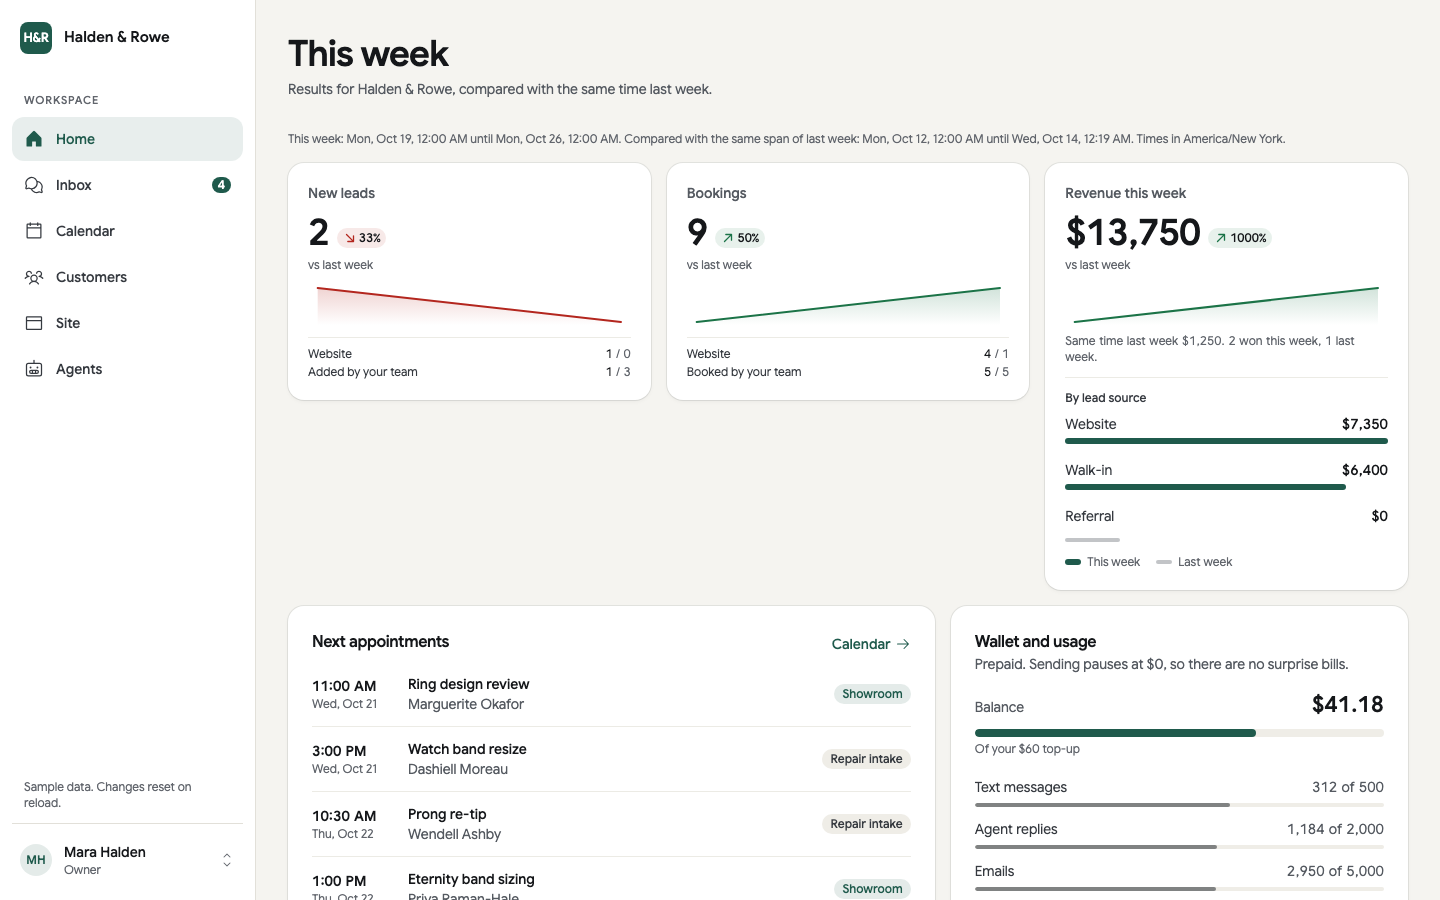
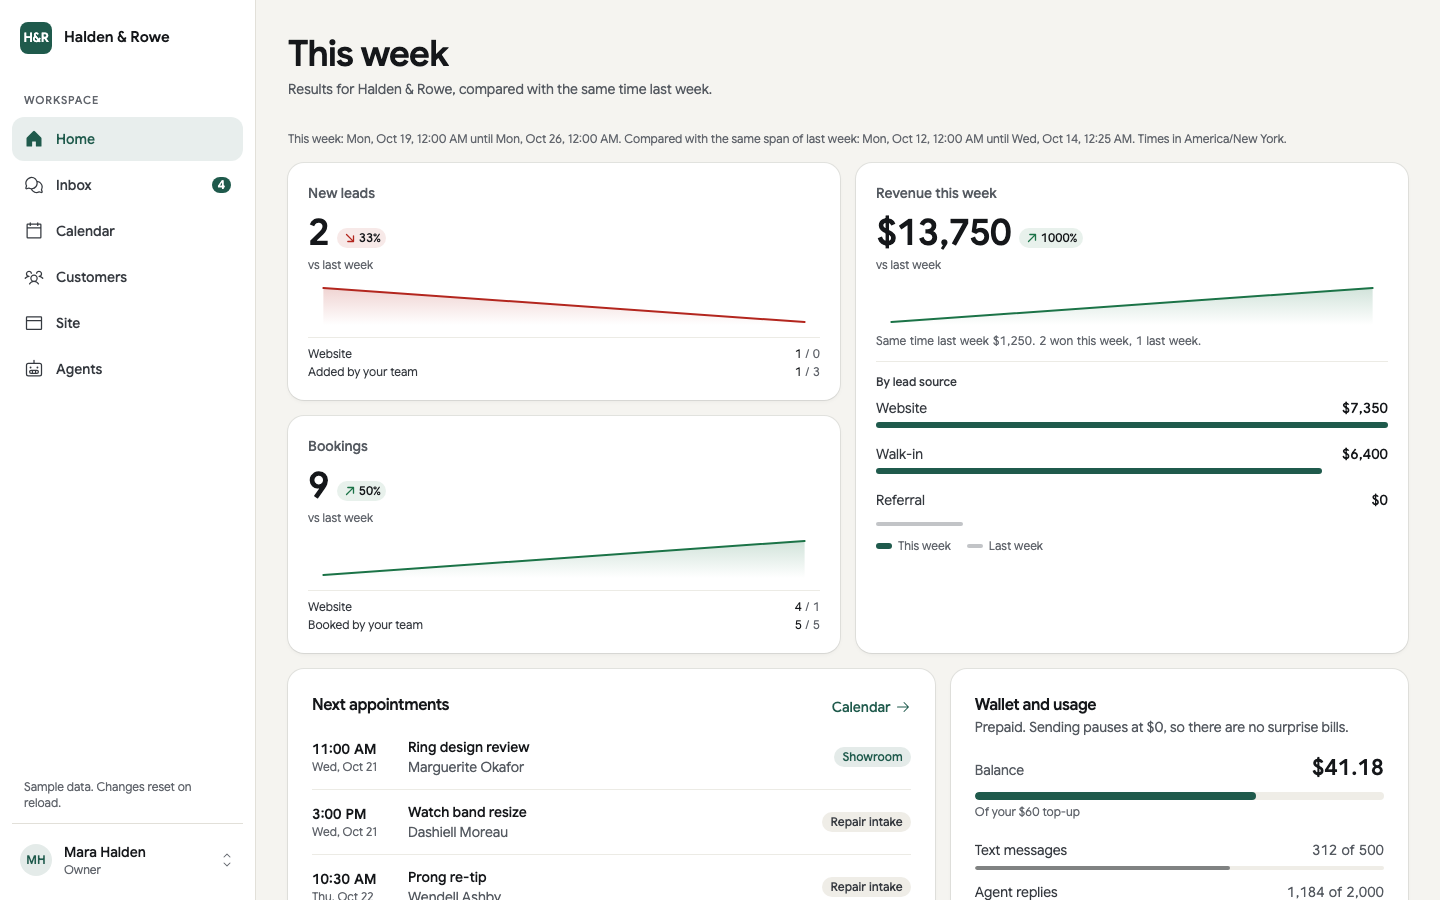
fix(dashboard): review fixes for the redesign
Home KPI tiles no longer scrub (last week's value showed beside this week's change, and the
chart was a sub-44px pointer target). Nav, hover and segmented indicators follow a reduced
motion setting changed while the app is open. Segmented switches scroll instead of widening
the page; KPI values shrink on phones.

diff --git a/apps/dashboard/src/components/ui/kpi-tile.tsx b/apps/dashboard/src/components/ui/kpi-tile.tsx
@@ -14,18 +14,9 @@ import {
   useEffect,
   useId,
   useState,
-  useSyncExternalStore,
 } from "react";
+import { useReducedMotionLive } from "@/lib/motion";
 import { cn } from "@/lib/utils";
-
-const REDUCED_MOTION = "(prefers-reduced-motion: reduce)";
-const reducesMotion = () => !!window.matchMedia?.(REDUCED_MOTION).matches;
-/** Follows the setting while mounted (Motion's own hook reads it once). */
-function watchMotion(change: () => void) {
-  const query = window.matchMedia?.(REDUCED_MOTION);
-  query?.addEventListener("change", change);
-  return () => query?.removeEventListener("change", change);
-}
 
 export type KpiTileProps = {
   /** What is measured, e.g. "Revenue"; also the tile's accessible name. */
@@ -44,6 +35,11 @@ export type KpiTileProps = {
   trendLabels?: readonly string[];
   /** New values keep coming: the newest point pulses. */
   live?: boolean;
+  /**
+   * Pointer and arrow keys on the line show a point's value in the headline. Off when the change
+   * chip would then describe another period than the headline. Default: on.
+   */
+  scrub?: boolean;
   /** Skeletons while the first numbers load. */
   loading?: boolean;
   className?: string;
@@ -81,7 +77,7 @@ const tween = (duration: number) => ({ duration, ease: EASE });
 const [ROLL, MORPH, DRAW] = [tween(0.6), tween(0.5), tween(0.9)] as const;
 const SKELETON = "skeleton block";
 const VALUE =
-  "font-semibold text-3xl text-fg tabular-nums leading-none tracking-display";
+  "min-w-0 break-all font-semibold text-2xl text-fg tabular-nums leading-none tracking-display sm:text-3xl";
 const TILE =
   "flex min-w-0 flex-col gap-3 rounded-lg bg-surface p-4 text-fg shadow-card lg:p-5";
 const LABEL = "truncate font-medium text-muted text-sm";
@@ -139,6 +135,7 @@ export function KpiTile({
   trend = [],
   trendLabels,
   live = false,
+  scrub = true,
   loading = false,
   className,
   formatDelta = (change) => `${Math.abs(change).toFixed(1)}%`,
@@ -147,7 +144,7 @@ export function KpiTile({
   children,
 }: KpiTileProps) {
   // The server cannot know it: hydration starts with motion, then follows the setting.
-  const reduced = useSyncExternalStore(watchMotion, reducesMotion, () => false);
+  const reduced = useReducedMotionLive();
   const id = useId();
   const [active, setActive] = useState(null as number | null);
   const points = placePoints(trend, trendLabels);
@@ -214,7 +211,7 @@ export function KpiTile({
       className={cn(TILE, className)}
       data-slot="kpi-tile"
       data-testid={testId}
-      onPointerLeave={letGo}
+      onPointerLeave={scrub ? letGo : undefined}
     >
       <h2 className={LABEL} id={`${id}-label`}>
         {label}
@@ -268,8 +265,8 @@ export function KpiTile({
             <svg
               aria-hidden="true"
               className="block size-full touch-pan-y overflow-visible"
-              onPointerDown={pick}
-              onPointerMove={pick}
+              onPointerDown={scrub ? pick : undefined}
+              onPointerMove={scrub ? pick : undefined}
               preserveAspectRatio="none"
               viewBox={`0 0 ${W} ${H}`}
             >
@@ -338,7 +335,7 @@ export function KpiTile({
                 style={spot(point)}
               />
             ) : null}
-            {points.length > 1 && read ? (
+            {scrub && points.length > 1 && read ? (
               <input
                 aria-label={`${label} trend`}
                 aria-valuetext={`${read.label}: ${format(read.value)}`}

diff --git a/apps/dashboard/src/components/ui/segmented.tsx b/apps/dashboard/src/components/ui/segmented.tsx
@@ -7,7 +7,7 @@
 import { LayoutGroup, motion } from "motion/react";
 import Link from "next/link";
 import { useId } from "react";
-import { SPRING_LAYOUT } from "@/lib/motion";
+import { useLayoutTransition } from "@/lib/motion";
 import { cn } from "@/lib/utils";
 
 /** A pressed-button group with a pill that slides to the chosen option. */
@@ -19,9 +19,10 @@ export function Segmented<T extends string>({ label, value, options, onChange, c
   className?: string;
 }) {
   const id = useId();
+  const transition = useLayoutTransition();
   return (
     <LayoutGroup id={id}>
-      <div role="group" aria-label={label} className={cn("inline-flex rounded-pill bg-surface-warm p-1", className)}>
+      <div role="group" aria-label={label} className={cn("inline-flex max-w-full overflow-x-auto rounded-pill bg-surface-warm p-1", className)}>
         {options.map((option) => {
           const active = value === option.value;
           return (
@@ -31,12 +32,12 @@ export function Segmented<T extends string>({ label, value, options, onChange, c
               aria-pressed={active}
               onClick={() => onChange(option.value)}
               className={cn(
-                "relative min-h-11 rounded-pill px-4 text-sm font-medium transition-quick",
+                "relative min-h-11 shrink-0 rounded-pill px-3 text-sm font-medium whitespace-nowrap transition-quick",
                 active ? "text-fg" : "text-muted hover:text-fg",
               )}
             >
               {active ? (
-                <motion.span layoutId="pill" transition={SPRING_LAYOUT} aria-hidden className="absolute inset-0 rounded-pill bg-surface shadow-card" />
+                <motion.span layoutId="pill" transition={transition} aria-hidden className="absolute inset-0 rounded-pill bg-surface shadow-card" />
               ) : null}
               <span className="relative">{option.label}</span>
             </button>
@@ -55,6 +56,7 @@ export function ViewTabs({ label, current, tabs, className }: {
   className?: string;
 }) {
   const id = useId();
+  const transition = useLayoutTransition();
   return (
     <LayoutGroup id={id}>
       <nav aria-label={label} className={cn("flex gap-1 border-b border-border", className)}>
@@ -72,7 +74,7 @@ export function ViewTabs({ label, current, tabs, className }: {
             >
               {tab.label}
               {active ? (
-                <motion.span layoutId="underline" transition={SPRING_LAYOUT} aria-hidden className="absolute inset-x-0 -bottom-px h-0.5 rounded-pill bg-accent" />
+                <motion.span layoutId="underline" transition={transition} aria-hidden className="absolute inset-x-0 -bottom-px h-0.5 rounded-pill bg-accent" />
               ) : null}
             </Link>
           );

diff --git a/apps/dashboard/src/components/shell/app-shell.tsx b/apps/dashboard/src/components/shell/app-shell.tsx
@@ -12,7 +12,7 @@ import { AccountMenu, OWNER } from "./account-menu";
 import { isActive, NAV_ITEMS } from "./nav";
 import { SessionGate } from "./session-gate";
 import { SharedLayoutBg } from "@/components/ui/shared-layout-bg";
-import { SPRING_LAYOUT } from "@/lib/motion";
+import { useLayoutTransition } from "@/lib/motion";
 
 function Brand() {
   return (
@@ -35,6 +35,8 @@ function useInboxCount(): number {
 
 export function AppShell({ children }: { children: ReactNode }) {
   const pathname = usePathname();
+  // MotionConfig reads reduced motion once; this follows a change made while the app is open.
+  const layoutTransition = useLayoutTransition();
   const waiting = useInboxCount();
   const { mode } = useApiRuntime();
 
@@ -65,7 +67,7 @@ export function AppShell({ children }: { children: ReactNode }) {
               const active = isActive(pathname, item.href);
               return (
                 <li key={item.href}>
-                  {active ? <motion.span layoutId="nav-active" transition={SPRING_LAYOUT} aria-hidden className="absolute inset-0 rounded-md bg-accent/10" /> : null}
+                  {active ? <motion.span layoutId="nav-active" transition={layoutTransition} aria-hidden className="absolute inset-0 rounded-md bg-accent/10" /> : null}
                   <Link
                     href={item.href}
                     aria-current={active ? "page" : undefined}
@@ -117,7 +119,7 @@ export function AppShell({ children }: { children: ReactNode }) {
                   )}
                 >
                   <span className="relative flex h-8 w-14 items-center justify-center">
-                    {active ? <motion.span layoutId="tab-active" transition={SPRING_LAYOUT} aria-hidden className="absolute inset-0 rounded-pill bg-accent/12" /> : null}
+                    {active ? <motion.span layoutId="tab-active" transition={layoutTransition} aria-hidden className="absolute inset-0 rounded-pill bg-accent/12" /> : null}
                     <item.icon size={24} weight={active ? "fill" : "regular"} aria-hidden className="relative" />
                     {item.href === "/inbox" && waiting > 0 ? (
                       <span className="absolute top-0 right-2 min-w-4 rounded-pill bg-accent px-1 text-center text-[10px] leading-4 font-semibold text-accent-on" aria-label={`${waiting} need attention`}>

diff --git a/apps/dashboard/src/lib/motion.ts b/apps/dashboard/src/lib/motion.ts
@@ -1,6 +1,8 @@
 // Motion tokens from 21st.dev "Animated Sidebar" by @starc007 (MIT; see NOTICE). Springs for
 // shared-layout glides (nav pills and indicators); CSS durations live in theme.css.
 
+import { useSyncExternalStore } from "react";
+
 export const EASE_OUT = [0.16, 1, 0.3, 1] as const;
 export const EASE_IN_OUT = [0.77, 0, 0.175, 1] as const;
 export const EASE_DRAWER = [0.32, 0.72, 0, 1] as const;
@@ -54,3 +56,24 @@ export const SPRING_GLIDE = {
   damping: 50,
   mass: 0.5,
 } as const;
+
+const REDUCED_MOTION = "(prefers-reduced-motion: reduce)";
+const reducesMotion = () => !!window.matchMedia?.(REDUCED_MOTION).matches;
+/** Follows the setting while mounted (Motion's own hook and MotionConfig read it once). */
+function watchMotion(change: () => void) {
+  const query = window.matchMedia?.(REDUCED_MOTION);
+  query?.addEventListener("change", change);
+  return () => query?.removeEventListener("change", change);
+}
+
+/** Whether the owner asked for reduced motion, updated live. The server render assumes motion. */
+export function useReducedMotionLive(): boolean {
+  return useSyncExternalStore(watchMotion, reducesMotion, () => false);
+}
+
+const INSTANT = { duration: 0 } as const;
+
+/** SPRING_LAYOUT, or an instant move under reduced motion. */
+export function useLayoutTransition() {
+  return useReducedMotionLive() ? INSTANT : SPRING_LAYOUT;
+}

diff --git a/apps/dashboard/src/components/ui/shared-layout-bg.tsx b/apps/dashboard/src/components/ui/shared-layout-bg.tsx
@@ -7,7 +7,6 @@ import {
   AnimatePresence,
   type HTMLMotionProps,
   motion,
-  useReducedMotion,
   type Variants,
 } from "motion/react";
 import {
@@ -23,7 +22,7 @@ import {
   useId,
   useState,
 } from "react";
-import { SPRING_LAYOUT } from "@/lib/motion";
+import { SPRING_LAYOUT, useReducedMotionLive } from "@/lib/motion";
 import { cn } from "@/lib/utils";
 
 export interface SharedLayoutBgProps
@@ -68,7 +67,8 @@ export const SharedLayoutBg = forwardRef<HTMLElement, SharedLayoutBgProps>(
   ) {
   const [activeId, setActiveId] = useState<string | null>(null);
   const uid = useId();
-  const reduce = useReducedMotion();
+  // Live, not useReducedMotion: that one reads the setting once at mount.
+  const reduce = useReducedMotionLive();
 
     const renderedChildren = Children.toArray(children)
       .filter(isValidElement)

diff --git a/apps/dashboard/src/components/home/home-view.tsx b/apps/dashboard/src/components/home/home-view.tsx
@@ -37,6 +37,7 @@ function WeekTile({ id, label, compare, format, valueTestId, className, children
   const change = weekChange(compare.thisWeek, compare.lastWeek);
   return (
     <KpiTile
+      scrub={false}
       testId={`tile-${id}`}
       valueTestId={valueTestId}
       label={label}

diff --git a/design/DESIGN.md b/design/DESIGN.md
@@ -99,7 +99,9 @@ danger #f0857a.
 
 ## Typography
 
-Google Sans for everything, self-hosted by `next/font` (no request to Google at run time).
+Google Sans for everything, self-hosted by `next/font` (no request to Google at run time). The
+offline service worker keeps pages, scripts and styles but not fonts, so a cold offline open
+shows the system font, which is what the dashboard used before this redesign.
 Page titles are 28px on a phone and 36px on a wide screen, with -0.022em tracking. Numbers use
 tabular figures (`tabular` utility) so counts do not shift as they change.
 
@@ -123,7 +125,8 @@ badges, segmented switches and the tab-bar indicator.
 ## Components
 
 - **KPI tile** (21st.dev KPI Tile, MIT): value with a rolling number, a change chip and a
-  two-point sparkline for this week against the same span last week.
+  two-point sparkline for this week against the same span last week. Home turns scrubbing off
+  (`scrub={false}`): with two points, scrubbing put last week's value beside this week's change.
 - **Navigation** (21st.dev Animated Sidebar, MIT): a hover pill that glides between items and
   a sliding indicator on the current item; the phone tab bar uses the same indicator.
 - **Segmented and view tabs** (Cult UI Halo Tabs, MIT): a sliding pill for pressed-button

diff --git a/design/BRIEF.md b/design/BRIEF.md
@@ -55,5 +55,9 @@ Rejected: 21st.dev Bottom Nav Bar (no licence stated).
 - Devin signs G4 on the rendered first journey (shell + Home + Connections), then G5.
 
 ## Open risks
+- G4 question for Devin: Home still leads with the week's results, as before the redesign. On a
+  390x844 phone, "Next appointments" starts below the first screen, so the "what needs me now"
+  criterion is not met yet. Leading with appointments and connections instead is a product
+  priority call, not a style fix, so it waits for G4.
 - Motion adds a dependency (`motion`); keep it to transform/opacity and honour reduced motion.
 - Snapshot-style e2e assertions on classes or layout may need updates; behaviour must not.
